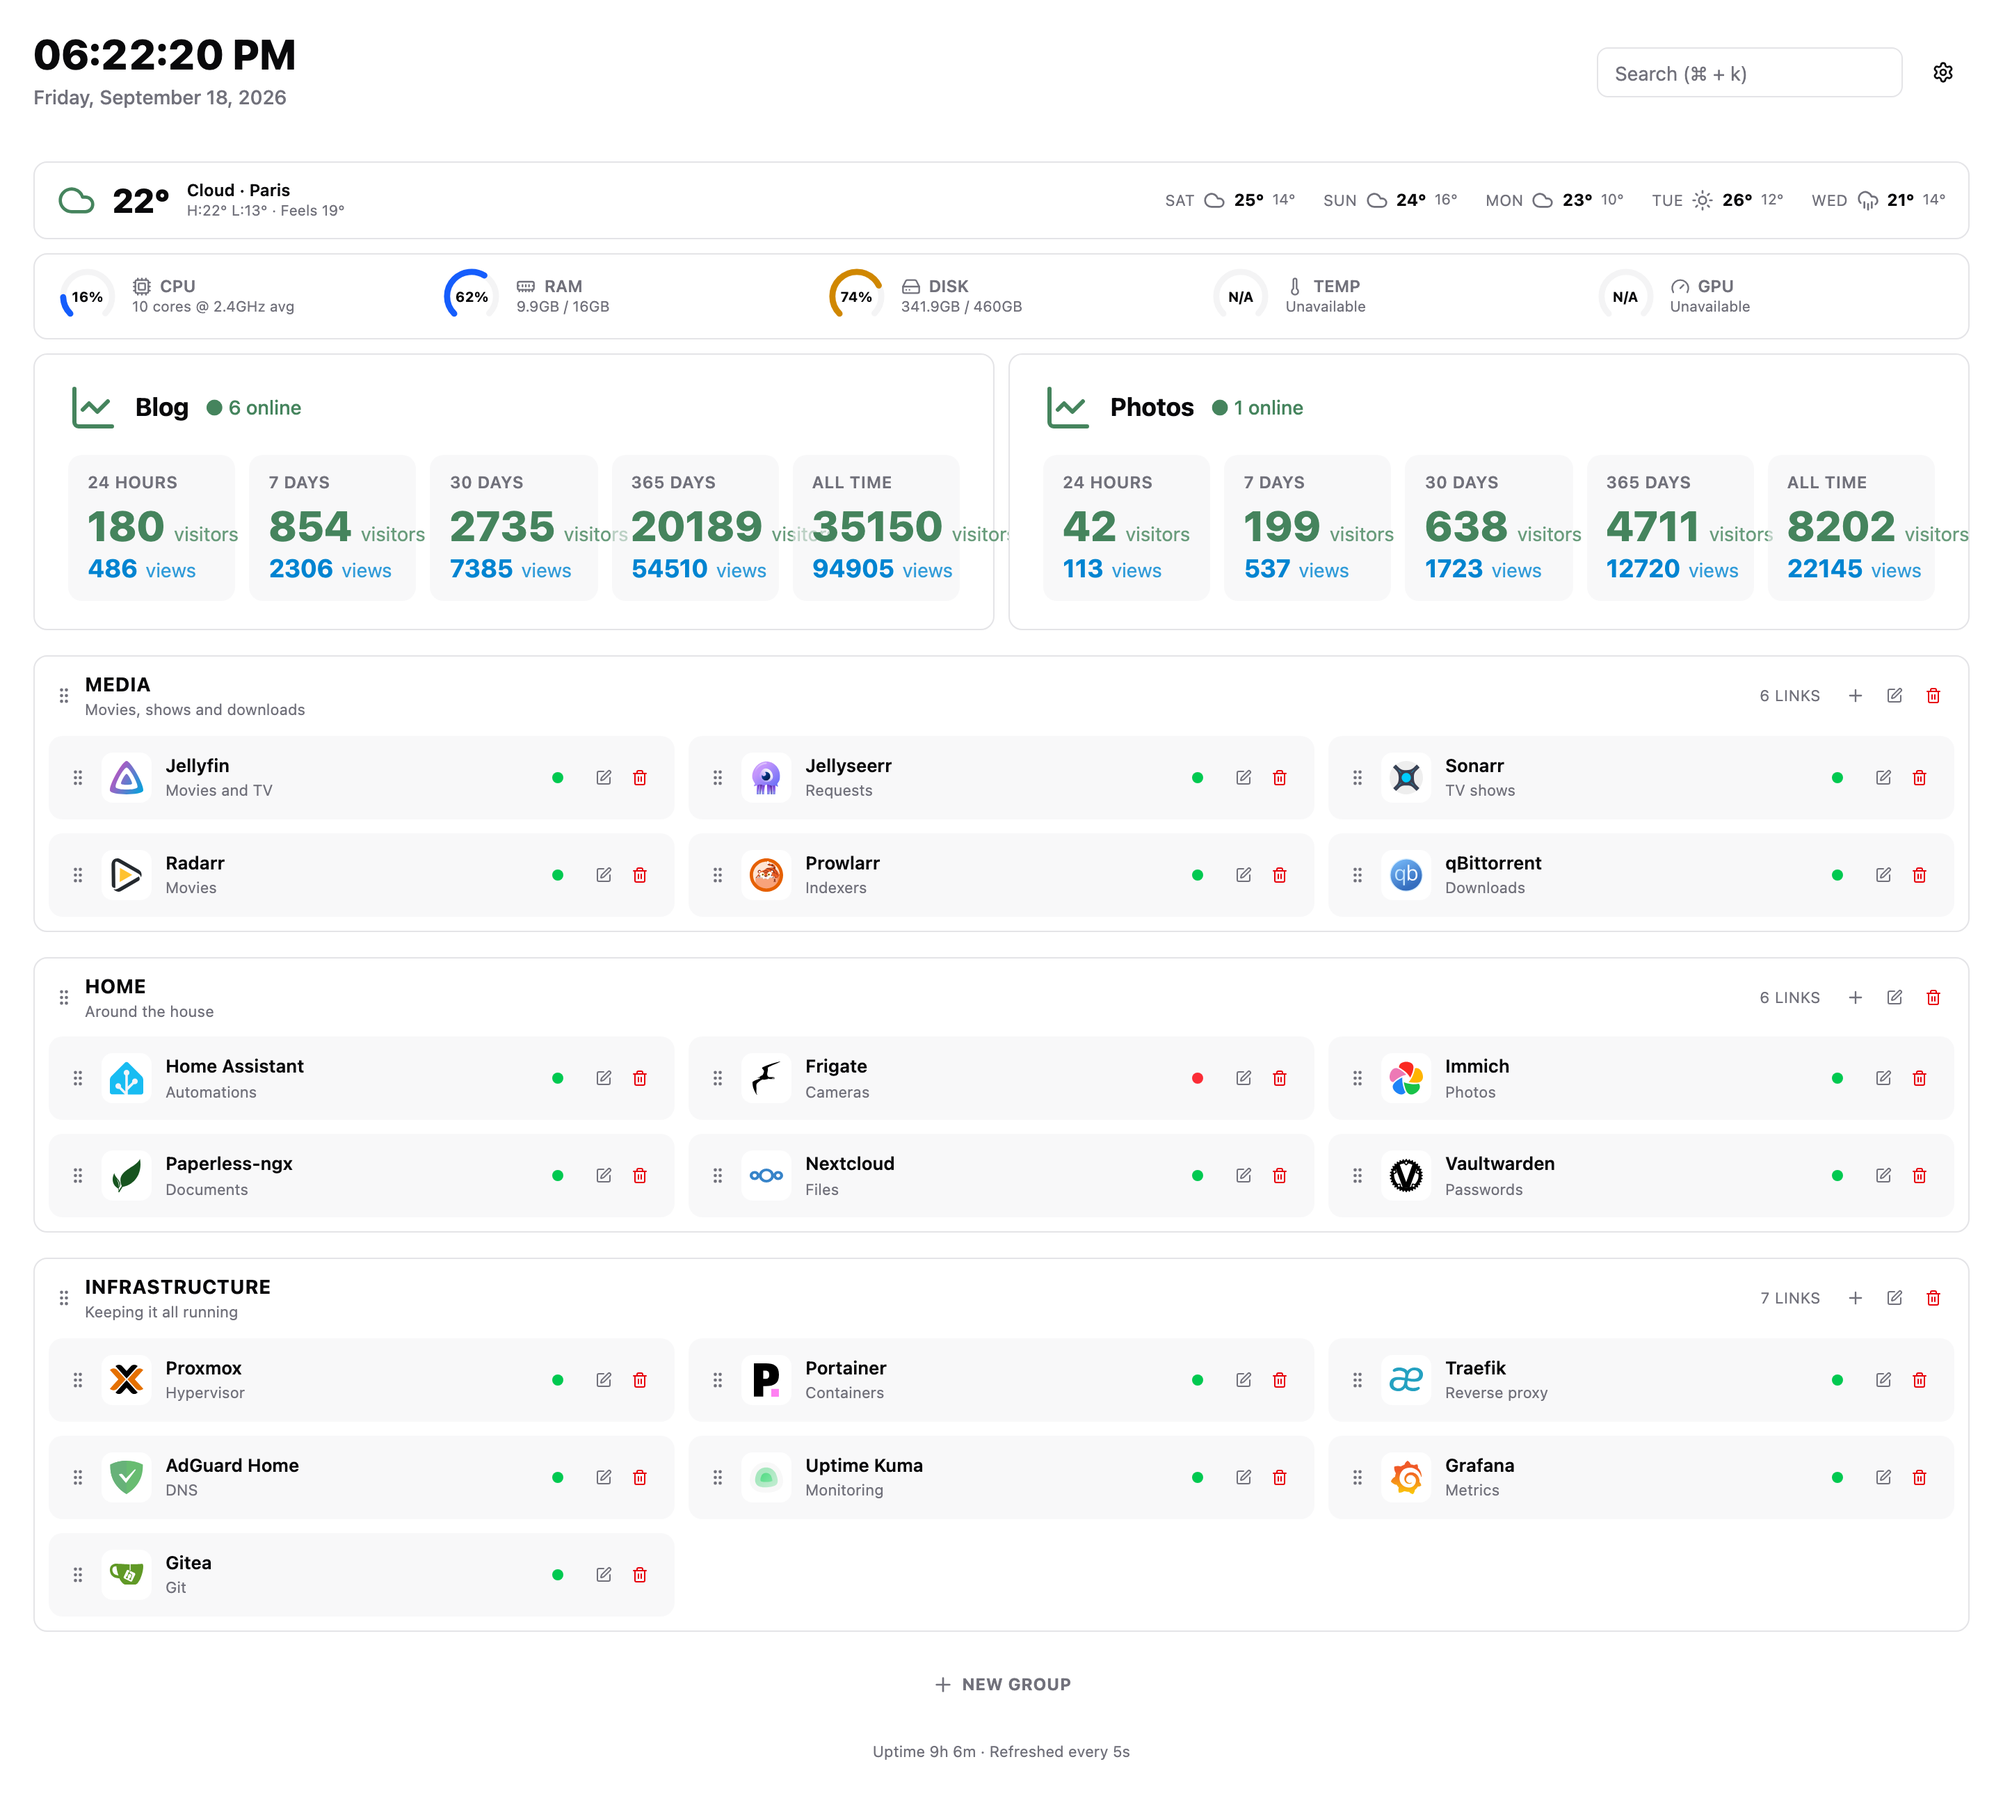
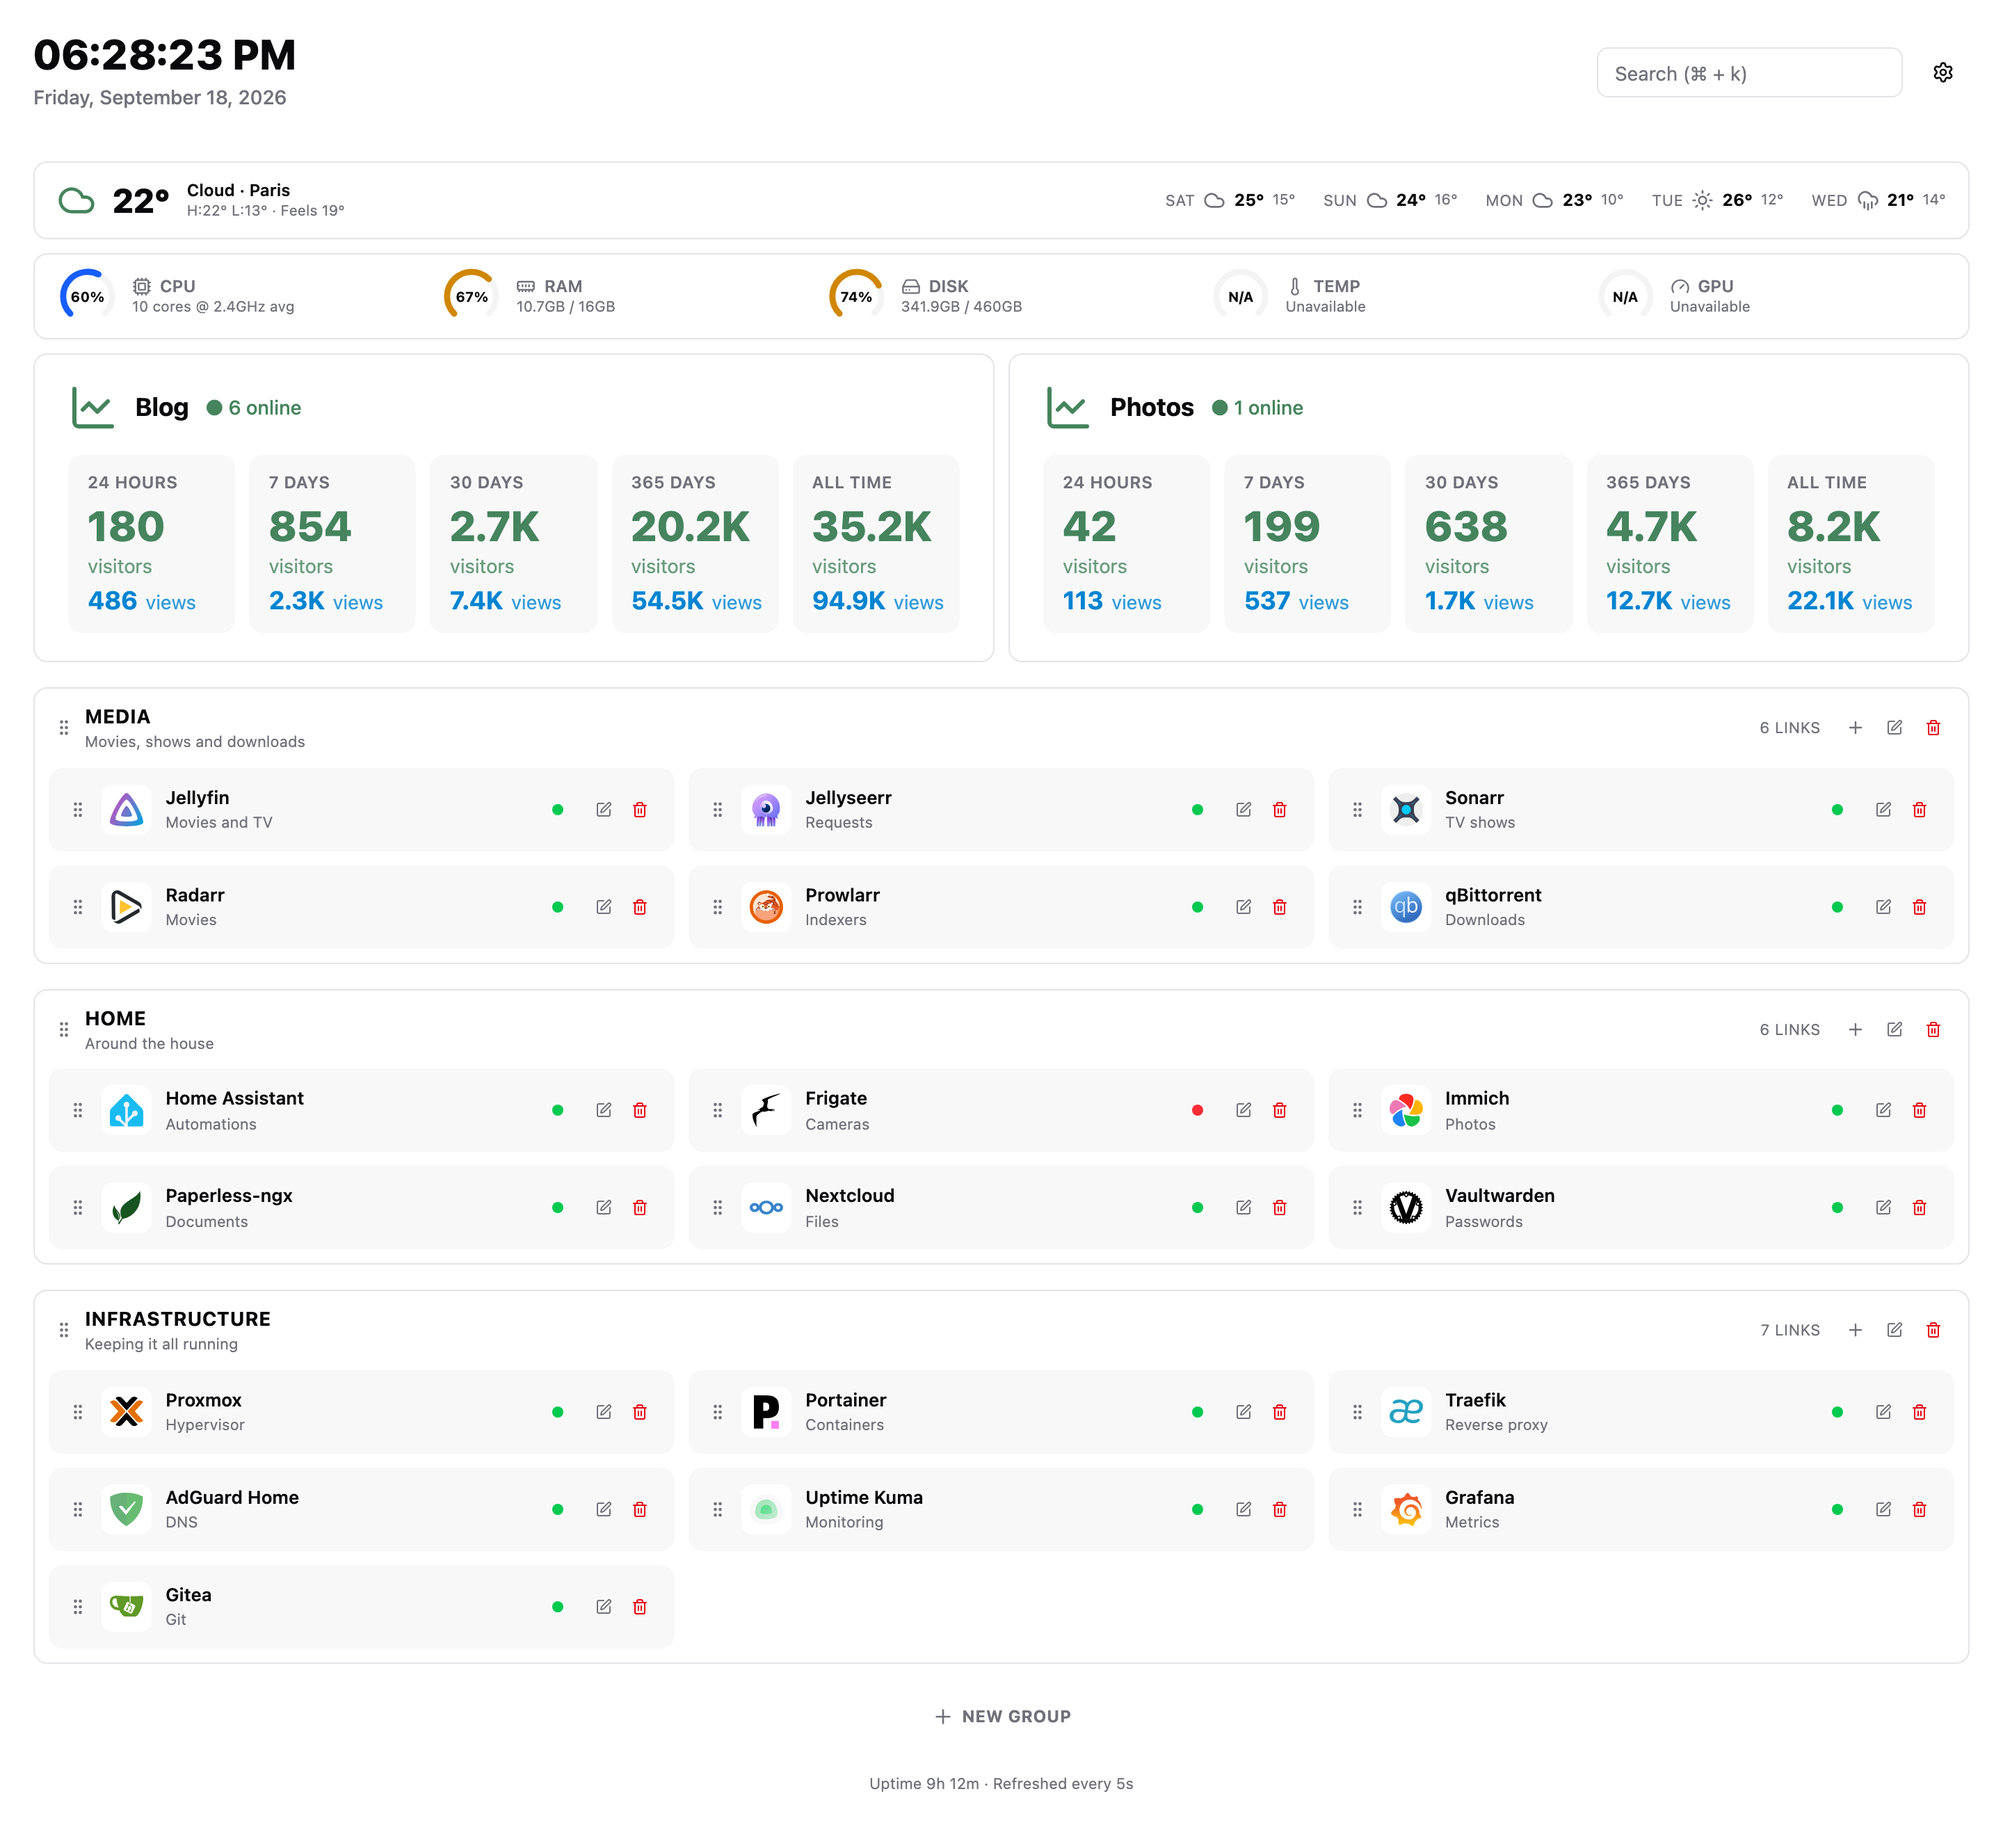
fix: analytics display

diff --git a/src/lib/components/dashboard/UmamiPanel.svelte b/src/lib/components/dashboard/UmamiPanel.svelte
@@ -7,6 +7,9 @@
 	};
 
 	let { websites }: Props = $props();
+
+	// 20189 -> "20.2K", so every tile fits at any width; the exact count is in the tooltip.
+	const compact = new Intl.NumberFormat('en', { notation: 'compact', maximumFractionDigits: 1 });
 </script>
 
 <div class="grid grid-cols-1 gap-2.5 xl:grid-cols-2">
@@ -30,15 +33,16 @@
 						<div class="text-muted-foreground text-xs font-semibold tracking-wide uppercase">
 							{range.label}
 						</div>
-						<div class="mt-2 flex items-baseline gap-1.5">
-							<span class="text-primary text-3xl leading-none font-extrabold">
-								{range.visitors}
-							</span>
-							<span class="text-primary/80 text-sm">visitors</span>
+						<div
+							class="text-primary mt-2 text-3xl leading-none font-extrabold"
+							title="{range.visitors} visitors"
+						>
+							{compact.format(range.visitors)}
 						</div>
-						<div class="mt-1.5 flex items-baseline gap-1.5">
+						<div class="text-primary/80 mt-1 text-sm">visitors</div>
+						<div class="mt-1.5 flex items-baseline gap-1.5" title="{range.pageviews} views">
 							<span class="text-lg leading-none font-bold text-sky-600 dark:text-sky-400"
-								>{range.pageviews}</span
+								>{compact.format(range.pageviews)}</span
 							>
 							<span class="text-sm text-sky-600/80 dark:text-sky-400/80">views</span>
 						</div>
